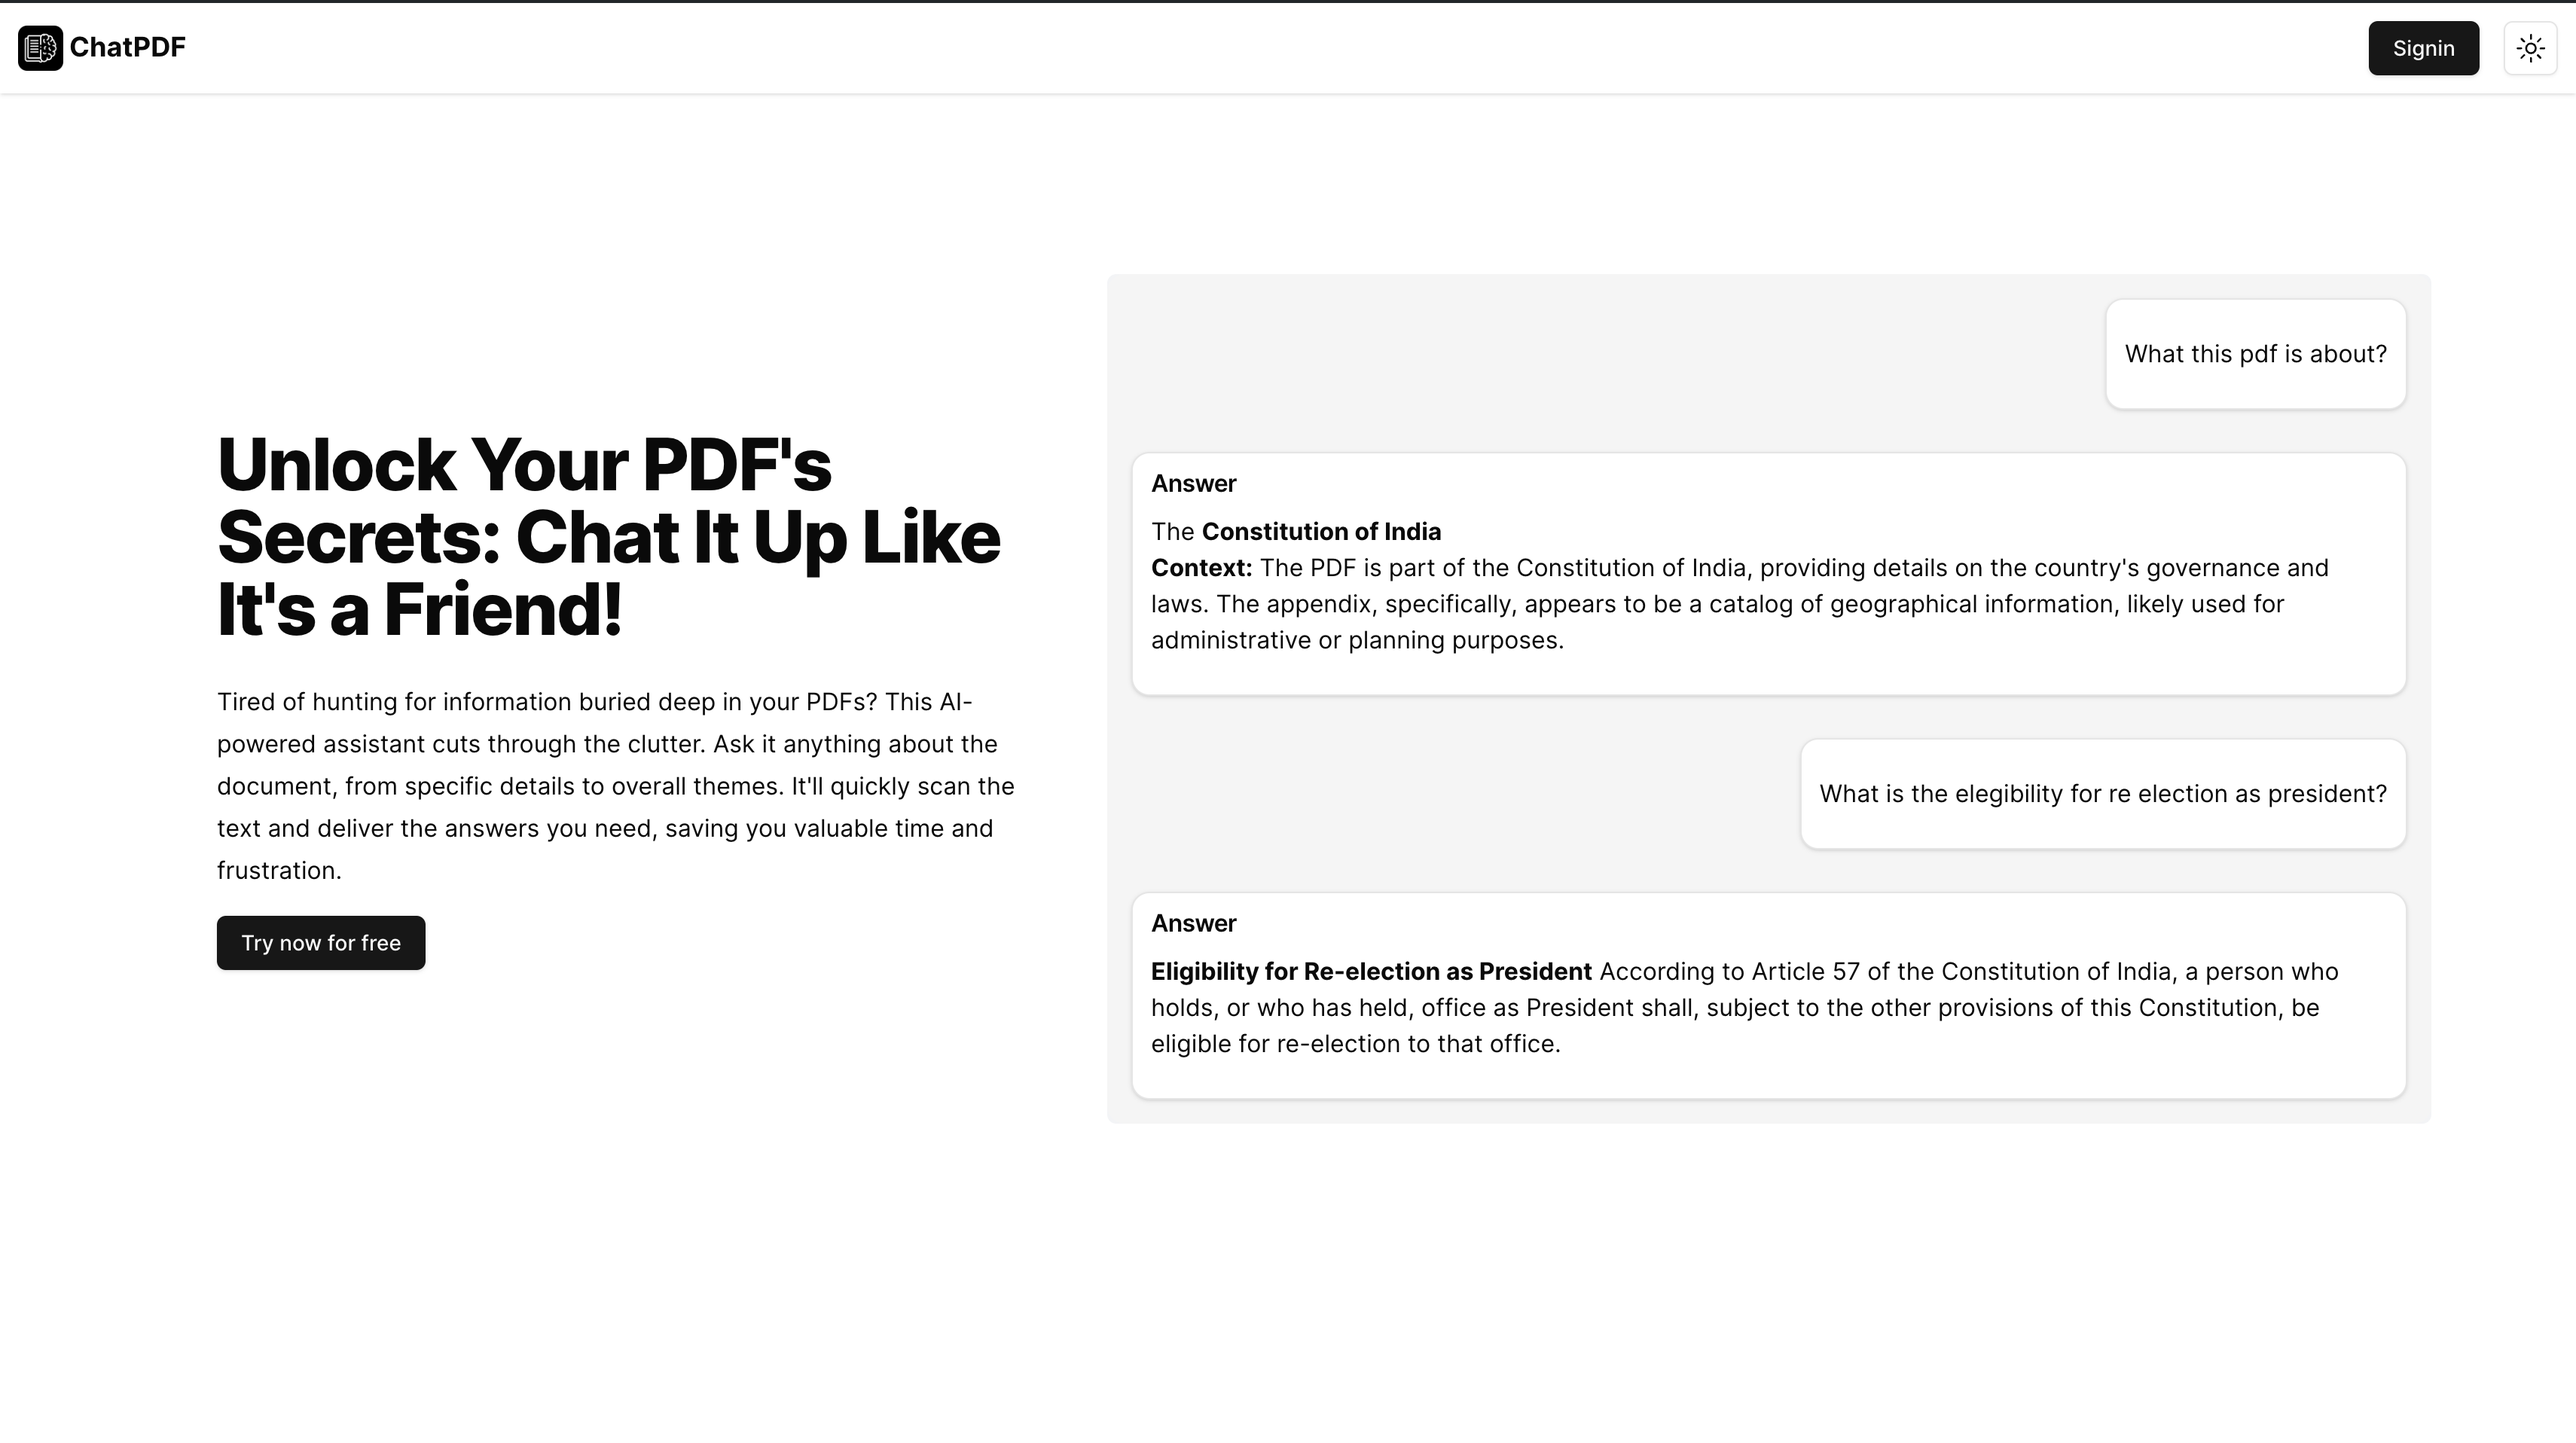
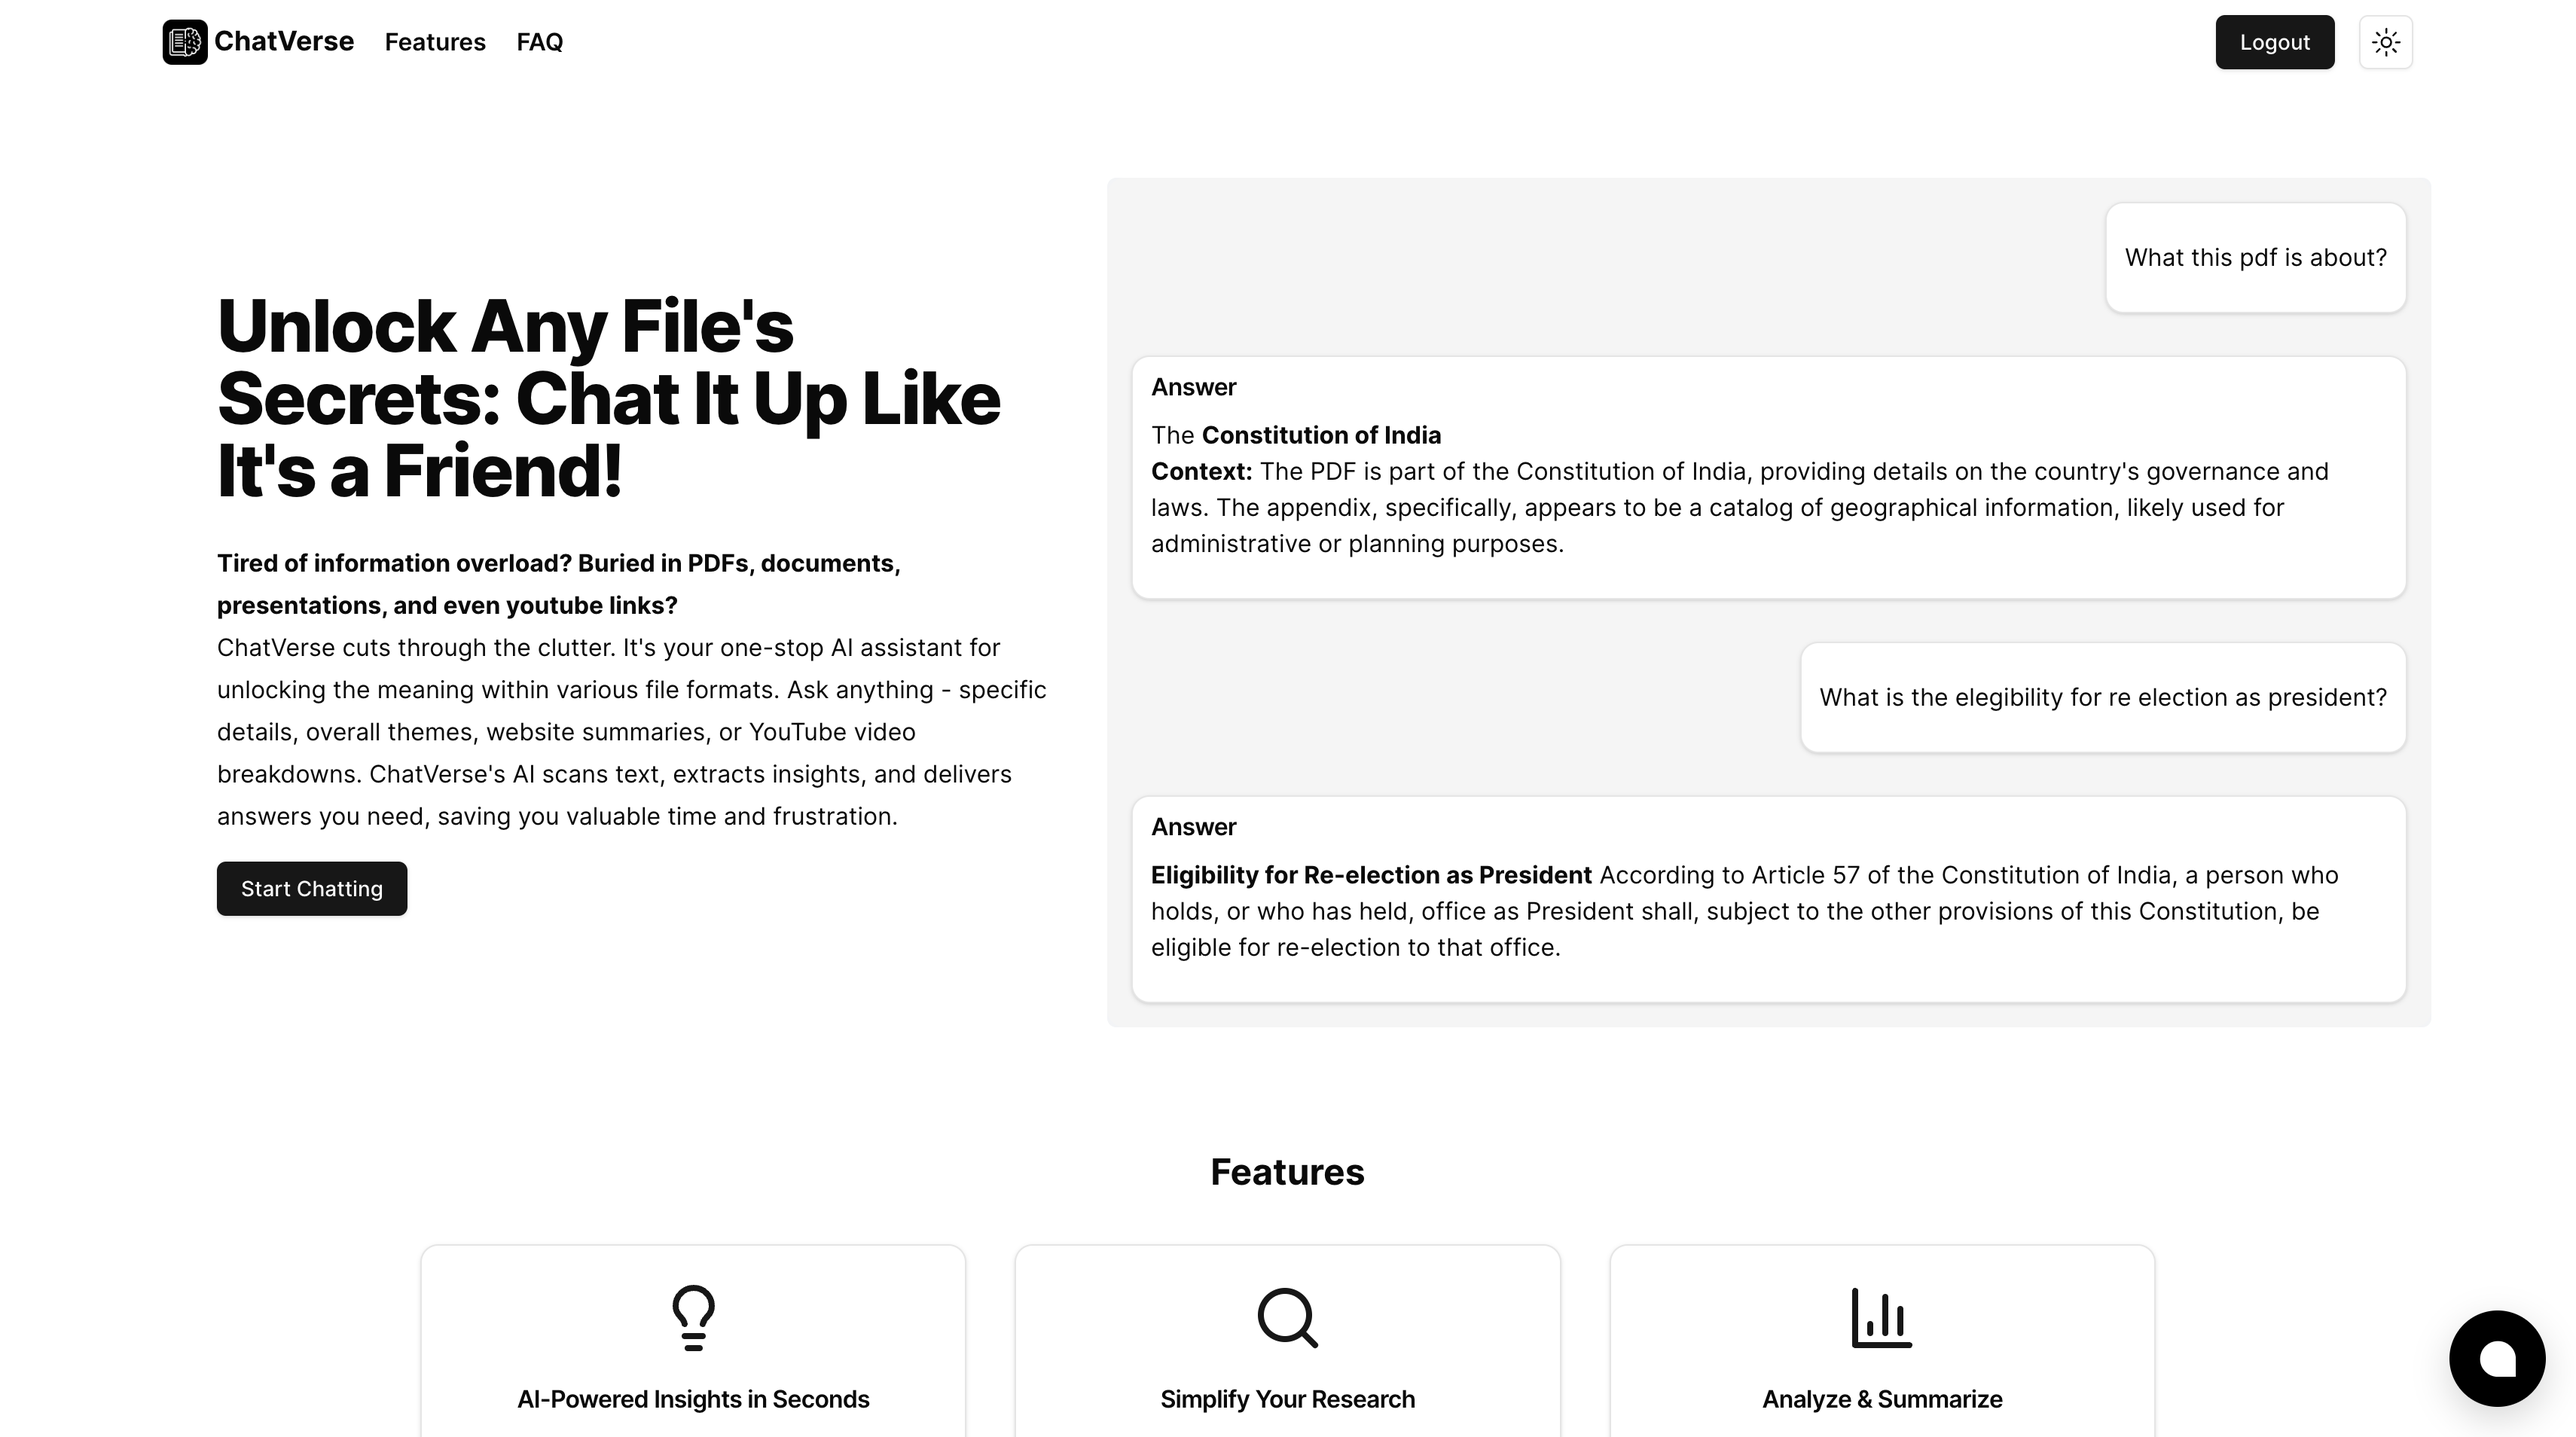
updated the products

diff --git a/src/actions/chat.ts b/src/actions/chat.ts
@@ -84,16 +84,20 @@ async function myAction(userMessage: string, prevMessages: ChatMessageProps[]): 
     stream: true,
     model: "llama3-70b-8192",
     })
-    // let fullResponse = ''
+    let fullResponse = ''
     for await (const chunk of chatCompletion) {
         if (chunk.choices[0].delta && chunk.choices[0].finish_reason !== "stop") {
-            // console.log(chunk.choices[0].delta)
+            console.log(chunk.choices[0].delta)
           streamable.update({ 'llmResponse': chunk.choices[0].delta.content });
-          // fullResponse += chunk.choices[0].delta.content;
+          fullResponse += chunk.choices[0].delta.content;
         } else if (chunk.choices[0].finish_reason === "stop") {
           streamable.update({ 'llmResponseEnd': true });
           // const emptyGeneration:any = [];
-          // const response = await cache.update(userMessage, process.env.GROQ_API_KEY!, emptyGeneration.concat({ content: fullResponse }));
+          // const answer = emptyGeneration.concat({ content: fullResponse })
+          // console.log(answer)
+          // const response = await cache.update(userMessage, process.env.GROQ_API_KEY!, answer[0].content);
+          // console.log(response)
+
         }
       }
 

diff --git a/src/constants/index.ts b/src/constants/index.ts
@@ -144,8 +144,8 @@ import { AIModel, css, chatpdf, docker, git, html, javascript, LinkShrink, mern,
       
     },
     {
-      name: "Chatpdf",
-      description: "An AI chatbot that quickly scan your pdf's and deliver the answers you need, saving you valuable time and frustration.",
+      name: "ChatVerse",
+      description: "An AI chatbot that quickly scan your pdf's, youtube links and deliver the answers you need, saving you valuable time and frustration.",
       isDeployed: true,
       deployedLink: "https://enigma-chatpdf.vercel.app",
       image: chatpdf,
